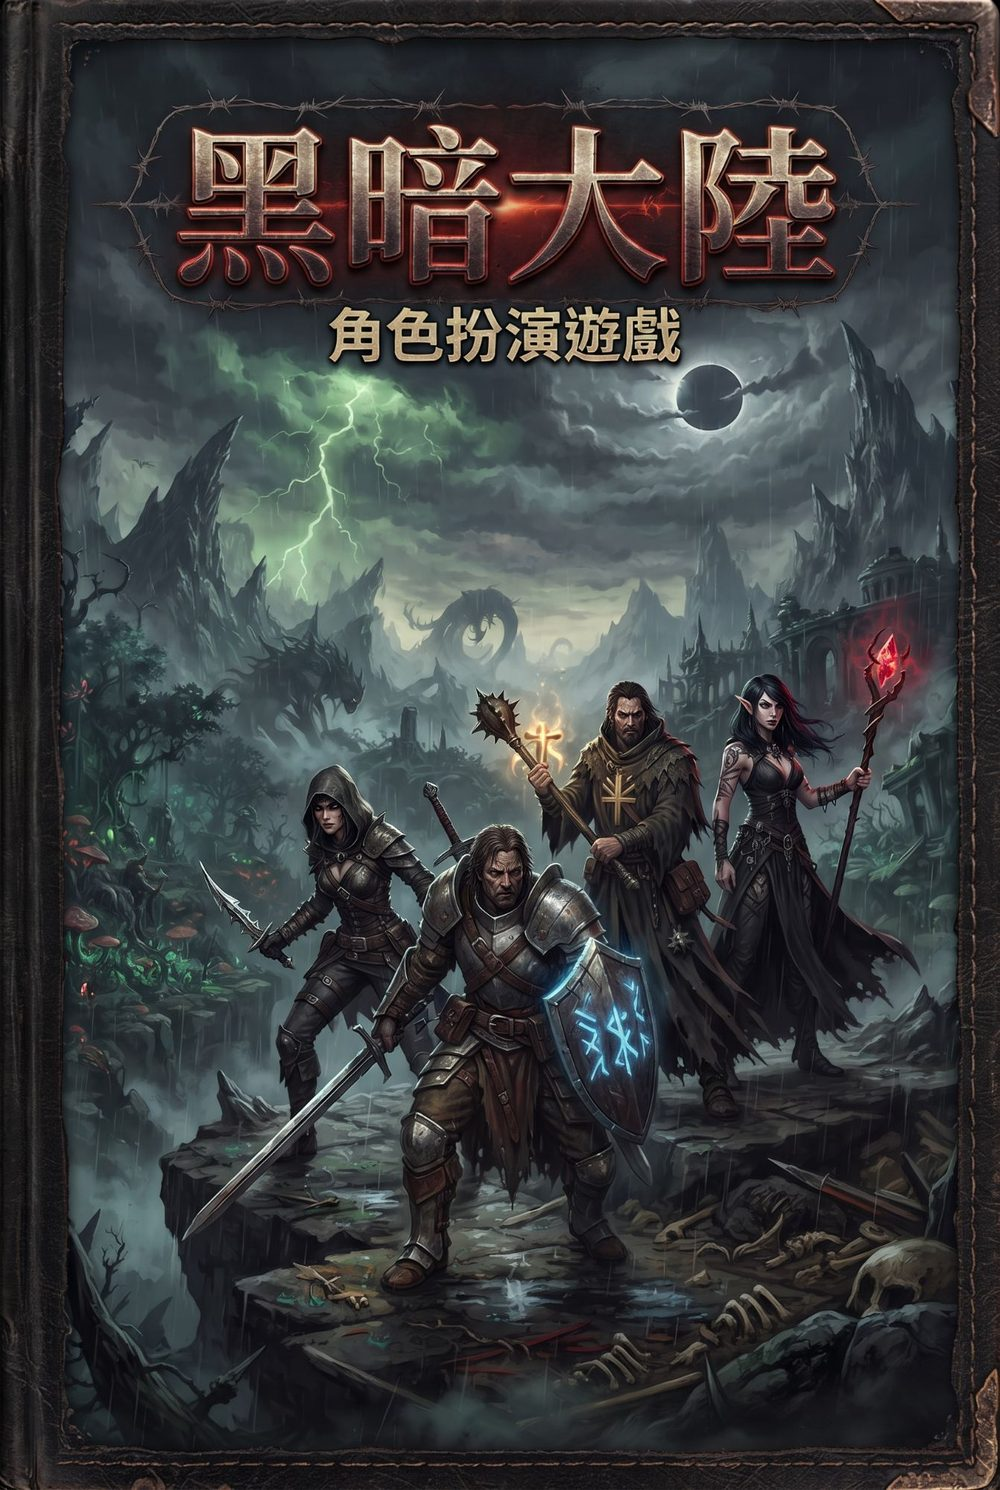
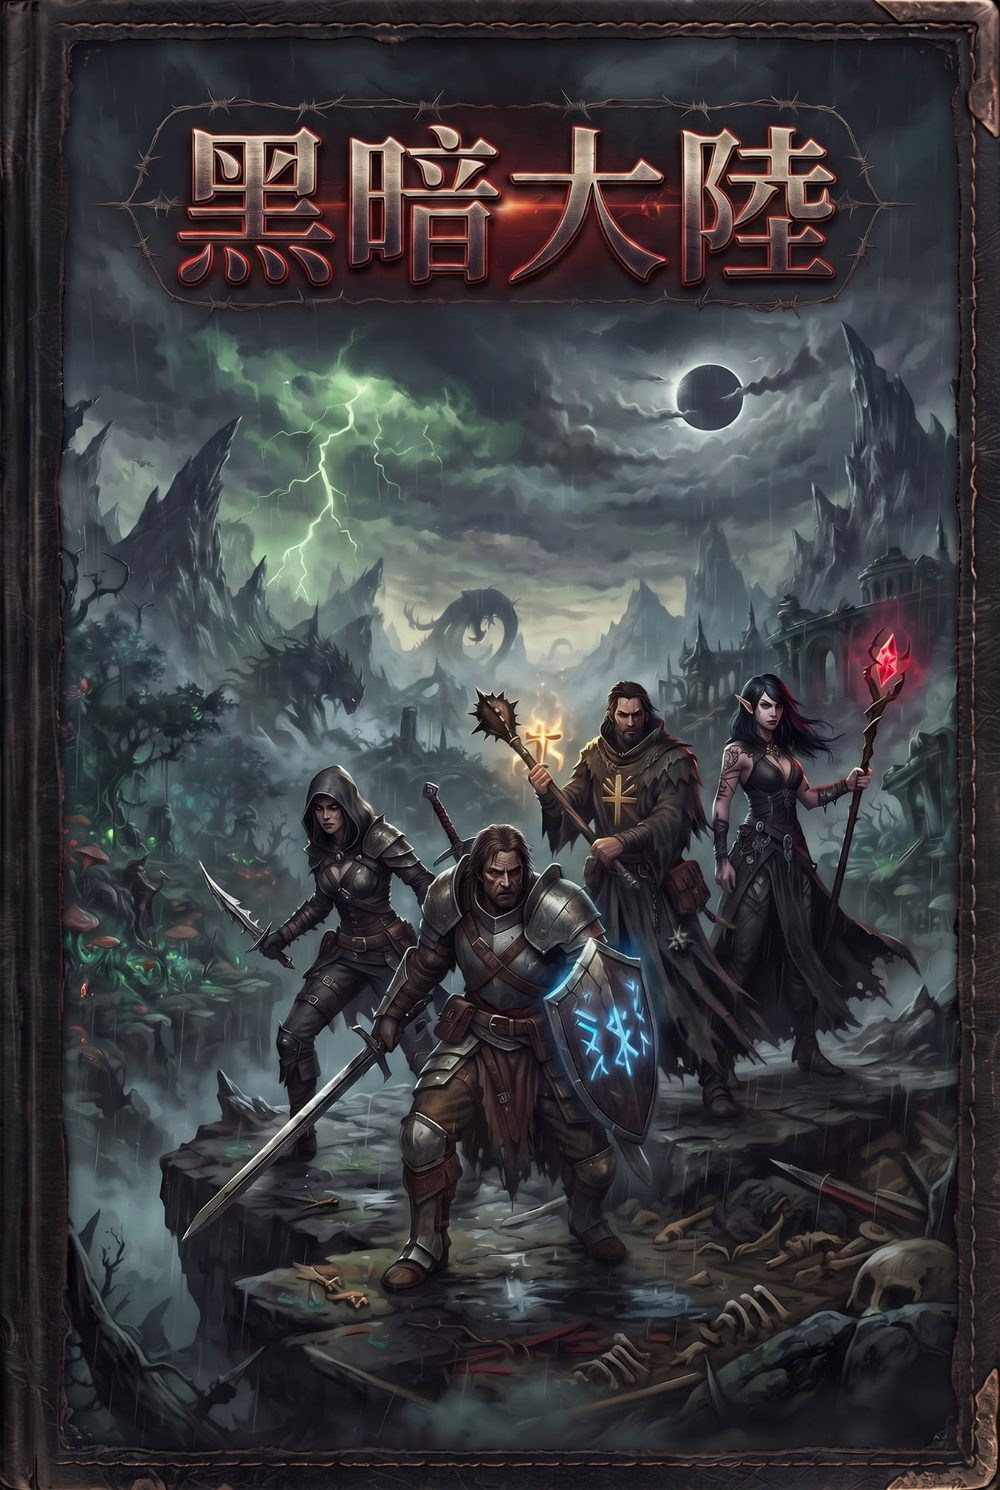
黑暗大陸：換第二版封面、App 圖示改用封面
- 版本 20261012s

Claude-Session: https://claude.ai/code/session_01MiarM4cGHB2ExdtzHSKqUD

diff --git a/屠龍勇者/sw.js b/屠龍勇者/sw.js
@@ -20,7 +20,7 @@ self.addEventListener('install', event => {
             const urls = [...html.matchAll(/src="(data\/[^"]+\?v=[^"]+)"/g)].map(m => new URL(m[1], self.location).href);
             await Promise.all(urls.map(u => cache.add(u).catch(() => {})));
             const assets = await caches.open(ASSETS);
-            await Promise.all(['manifest.json', 'images/icon-192.png', 'images/cover.jpg?v=1', 'images/icon-512.png', 'images/frame.jpg?v=1', 'images/frame-pc-notop.jpg?v=1', 'images/frame-pc-notop-mask.png?v=1', 'images/sprites/demon-walk.png', 'images/sprites/demon-attack.png', 'images/sprites/demon-cast.png', 'images/sprites/demon-hit.png', 'images/classes/demon.jpg', 'images/sprites/angel-walk.png', 'images/sprites/angel-attack.png', 'images/sprites/angel-cast.png', 'images/sprites/angel-hit.png', 'images/classes/angel.jpg','images/maps/ruins.jpg', 'images/maps/village.webp', 'images/maps/ash.webp', 'images/maps/darkgold.webp', 'images/maps/aden.webp', 'images/monsters/wakingDrake.png', 'images/monsters/skeleton.png', 'images/monsters/skeletonArcher.png', 'images/monsters/skeletonAxe.png', 'images/monsters/ghoul.png', 'images/monsters/spartoi.png', 'images/monsters/baphomet.png', 'images/monsters/goblin.png', 'images/monsters/orcWarrior.png', 'images/monsters/gandiOrc.png', 'images/monsters/orcxOrc.png', 'images/monsters/lizardman.png', 'images/monsters/beholder.png', 'images/monsters/floatingEye.png', 'images/monsters/castor.png', 'images/monsters/orc.png', 'images/monsters/orcArcher.png', 'images/monsters/dwarf.png', 'images/monsters/wolf.png', 'images/monsters/werewolf.png', 'images/monsters/lycan.png', 'images/monsters/drake.png', 'images/monsters/blackKnight.png', 'images/monsters/giantSpider.png', 'images/monsters/dwarfWarrior.png', 'images/monsters/forestBear.png', 'images/monsters/treant.png', 'images/monsters/elderTreant.png', 'images/monsters/zombie.png', 'images/monsters/stoneGolem.png', 'images/monsters/caveBat.png', 'images/monsters/ghast.png', 'images/monsters/darkElfScout.png', 'images/monsters/giantAnt.png', 'images/monsters/pirate.png', 'images/monsters/pirateKing.png', 'images/monsters/demon.png', 'images/monsters/pirateGunner.png', 'images/monsters/giantCrab.png', 'images/monsters/drownedSailor.png', 'images/monsters/hellhound.png', 'images/monsters/lamia.png', 'images/monsters/ivoryMage.png', 'images/monsters/ivoryGuard.png', 'images/monsters/dvLizard.png', 'images/monsters/cerberus.png', 'images/monsters/wyvernling.png', 'images/monsters/boneDragonKnight.png', 'images/monsters/wyvern.png', 'images/monsters/mummy.png', 'images/monsters/sandScorpion.png', 'images/monsters/sphinx.png', 'images/monsters/anubis.png', 'images/monsters/snowWolf.png', 'images/monsters/yeti.png', 'images/monsters/iceGolem.png', 'images/monsters/frostWitch.png', 'images/monsters/salamander.png', 'images/monsters/fireSpirit.png', 'images/monsters/lavaGolem.png', 'images/monsters/flameKnight.png', 'images/monsters/ifrit.png', 'images/monsters/ancientGiant.png', 'images/monsters/harpy.png', 'images/monsters/forgottenKnight.png', 'images/monsters/chimera.png', 'images/monsters/giantSkeleton.png', 'images/monsters/tombGuardian.png', 'images/monsters/necromancer.png', 'images/monsters/boneDragon.png', 'images/sprites/magicfighter-walk.png', 'images/sprites/magicfighter-attack.png', 'images/sprites/magicfighter-cast.png', 'images/sprites/magicfighter-hit.png', 'images/classes/magicfighter.jpg', 'images/sprites/paladin-walk.png', 'images/sprites/paladin-attack.png', 'images/sprites/paladin-cast.png', 'images/sprites/paladin-hit.png', 'images/classes/paladin.jpg', 'images/sprites/gunner-walk.png', 'images/sprites/gunner-attack.png', 'images/sprites/gunner-cast.png', 'images/sprites/gunner-hit.png', 'images/classes/gunner.jpg', 'images/sprites/elf-walk.png', 'images/sprites/elf-attack.png', 'images/sprites/elf-cast.png', 'images/sprites/elf-hit.png', 'images/classes/elf.jpg', 'images/sprites/darkelf-walk.png', 'images/sprites/darkelf-attack.png', 'images/sprites/darkelf-cast.png', 'images/sprites/darkelf-hit.png', 'images/classes/darkelf.jpg', 'images/sprites/shura-walk.png', 'images/sprites/shura-attack.png', 'images/sprites/shura-cast.png', 'images/sprites/shura-hit.png', 'images/classes/shura.jpg', 'images/sprites/knight-walk.png', 'images/sprites/knight-attack.png', 'images/sprites/knight-cast.png', 'images/sprites/knight-hit.png', 'images/classes/knight.jpg', 'images/sprites/royal-walk.png', 'images/sprites/royal-attack.png', 'images/sprites/royal-cast.png', 'images/sprites/royal-hit.png', 'images/classes/royal.jpg', 'images/sprites/mage-walk.png', 'images/sprites/mage-attack.png', 'images/sprites/mage-cast.png', 'images/sprites/mage-hit.png', 'images/classes/mage.jpg', 'images/sprites/warrior-walk.png', 'images/sprites/warrior-attack.png', 'images/sprites/warrior-cast.png', 'images/sprites/warrior-hit.png', 'images/classes/warrior.jpg', 'images/classes/all.jpg?v=2', 'images/classes/stage/demon.webp?v=1', 'images/classes/stage/warrior.webp?v=1', 'images/classes/stage/shura.webp?v=1', 'images/classes/stage/angel.webp?v=1', 'images/classes/stage/paladin.webp?v=1', 'images/classes/stage/elf.webp?v=1', 'images/classes/stage/gunner.webp?v=1', 'images/classes/stage/magicfighter.webp?v=1', 'images/classes/stage/darkelf.webp?v=1', 'images/classes/stage/royal.webp?v=1', 'images/classes/stage/knight.webp?v=1', 'images/classes/stage/mage.webp?v=1'].map(u => assets.add(u).catch(() => {})));
+            await Promise.all(['manifest.json', 'images/icon-192.png?v=2', 'images/cover.jpg?v=2', 'images/icon-512.png?v=2', 'images/frame.jpg?v=1', 'images/frame-pc-notop.jpg?v=1', 'images/frame-pc-notop-mask.png?v=1', 'images/sprites/demon-walk.png', 'images/sprites/demon-attack.png', 'images/sprites/demon-cast.png', 'images/sprites/demon-hit.png', 'images/classes/demon.jpg', 'images/sprites/angel-walk.png', 'images/sprites/angel-attack.png', 'images/sprites/angel-cast.png', 'images/sprites/angel-hit.png', 'images/classes/angel.jpg','images/maps/ruins.jpg', 'images/maps/village.webp', 'images/maps/ash.webp', 'images/maps/darkgold.webp', 'images/maps/aden.webp', 'images/monsters/wakingDrake.png', 'images/monsters/skeleton.png', 'images/monsters/skeletonArcher.png', 'images/monsters/skeletonAxe.png', 'images/monsters/ghoul.png', 'images/monsters/spartoi.png', 'images/monsters/baphomet.png', 'images/monsters/goblin.png', 'images/monsters/orcWarrior.png', 'images/monsters/gandiOrc.png', 'images/monsters/orcxOrc.png', 'images/monsters/lizardman.png', 'images/monsters/beholder.png', 'images/monsters/floatingEye.png', 'images/monsters/castor.png', 'images/monsters/orc.png', 'images/monsters/orcArcher.png', 'images/monsters/dwarf.png', 'images/monsters/wolf.png', 'images/monsters/werewolf.png', 'images/monsters/lycan.png', 'images/monsters/drake.png', 'images/monsters/blackKnight.png', 'images/monsters/giantSpider.png', 'images/monsters/dwarfWarrior.png', 'images/monsters/forestBear.png', 'images/monsters/treant.png', 'images/monsters/elderTreant.png', 'images/monsters/zombie.png', 'images/monsters/stoneGolem.png', 'images/monsters/caveBat.png', 'images/monsters/ghast.png', 'images/monsters/darkElfScout.png', 'images/monsters/giantAnt.png', 'images/monsters/pirate.png', 'images/monsters/pirateKing.png', 'images/monsters/demon.png', 'images/monsters/pirateGunner.png', 'images/monsters/giantCrab.png', 'images/monsters/drownedSailor.png', 'images/monsters/hellhound.png', 'images/monsters/lamia.png', 'images/monsters/ivoryMage.png', 'images/monsters/ivoryGuard.png', 'images/monsters/dvLizard.png', 'images/monsters/cerberus.png', 'images/monsters/wyvernling.png', 'images/monsters/boneDragonKnight.png', 'images/monsters/wyvern.png', 'images/monsters/mummy.png', 'images/monsters/sandScorpion.png', 'images/monsters/sphinx.png', 'images/monsters/anubis.png', 'images/monsters/snowWolf.png', 'images/monsters/yeti.png', 'images/monsters/iceGolem.png', 'images/monsters/frostWitch.png', 'images/monsters/salamander.png', 'images/monsters/fireSpirit.png', 'images/monsters/lavaGolem.png', 'images/monsters/flameKnight.png', 'images/monsters/ifrit.png', 'images/monsters/ancientGiant.png', 'images/monsters/harpy.png', 'images/monsters/forgottenKnight.png', 'images/monsters/chimera.png', 'images/monsters/giantSkeleton.png', 'images/monsters/tombGuardian.png', 'images/monsters/necromancer.png', 'images/monsters/boneDragon.png', 'images/sprites/magicfighter-walk.png', 'images/sprites/magicfighter-attack.png', 'images/sprites/magicfighter-cast.png', 'images/sprites/magicfighter-hit.png', 'images/classes/magicfighter.jpg', 'images/sprites/paladin-walk.png', 'images/sprites/paladin-attack.png', 'images/sprites/paladin-cast.png', 'images/sprites/paladin-hit.png', 'images/classes/paladin.jpg', 'images/sprites/gunner-walk.png', 'images/sprites/gunner-attack.png', 'images/sprites/gunner-cast.png', 'images/sprites/gunner-hit.png', 'images/classes/gunner.jpg', 'images/sprites/elf-walk.png', 'images/sprites/elf-attack.png', 'images/sprites/elf-cast.png', 'images/sprites/elf-hit.png', 'images/classes/elf.jpg', 'images/sprites/darkelf-walk.png', 'images/sprites/darkelf-attack.png', 'images/sprites/darkelf-cast.png', 'images/sprites/darkelf-hit.png', 'images/classes/darkelf.jpg', 'images/sprites/shura-walk.png', 'images/sprites/shura-attack.png', 'images/sprites/shura-cast.png', 'images/sprites/shura-hit.png', 'images/classes/shura.jpg', 'images/sprites/knight-walk.png', 'images/sprites/knight-attack.png', 'images/sprites/knight-cast.png', 'images/sprites/knight-hit.png', 'images/classes/knight.jpg', 'images/sprites/royal-walk.png', 'images/sprites/royal-attack.png', 'images/sprites/royal-cast.png', 'images/sprites/royal-hit.png', 'images/classes/royal.jpg', 'images/sprites/mage-walk.png', 'images/sprites/mage-attack.png', 'images/sprites/mage-cast.png', 'images/sprites/mage-hit.png', 'images/classes/mage.jpg', 'images/sprites/warrior-walk.png', 'images/sprites/warrior-attack.png', 'images/sprites/warrior-cast.png', 'images/sprites/warrior-hit.png', 'images/classes/warrior.jpg', 'images/classes/all.jpg?v=2', 'images/classes/stage/demon.webp?v=1', 'images/classes/stage/warrior.webp?v=1', 'images/classes/stage/shura.webp?v=1', 'images/classes/stage/angel.webp?v=1', 'images/classes/stage/paladin.webp?v=1', 'images/classes/stage/elf.webp?v=1', 'images/classes/stage/gunner.webp?v=1', 'images/classes/stage/magicfighter.webp?v=1', 'images/classes/stage/darkelf.webp?v=1', 'images/classes/stage/royal.webp?v=1', 'images/classes/stage/knight.webp?v=1', 'images/classes/stage/mage.webp?v=1'].map(u => assets.add(u).catch(() => {})));
         }
         await self.skipWaiting();
     })());

diff --git a/屠龍勇者/index.html b/屠龍勇者/index.html
@@ -6,8 +6,8 @@
 <title>黑暗大陸</title>
 <link rel="manifest" href="manifest.json">
 <meta name="theme-color" content="#12100c">
-<link rel="icon" type="image/png" sizes="192x192" href="images/icon-192.png">
-<link rel="apple-touch-icon" href="images/apple-touch-icon.png">
+<link rel="icon" type="image/png" sizes="192x192" href="images/icon-192.png?v=2">
+<link rel="apple-touch-icon" href="images/apple-touch-icon.png?v=2">
 <meta name="apple-mobile-web-app-capable" content="yes">
 <meta name="mobile-web-app-capable" content="yes">
 <meta name="apple-mobile-web-app-status-bar-style" content="black-translucent">
@@ -65,7 +65,7 @@
     /* 標題 */
     /* 標題畫面＝使用者提供的「黑暗大陸」封面（images/cover.jpg，1000×1490，圖上已有標題字）；按鈕疊在下方 */
     #screen-title { align-items: center; justify-content: flex-end; text-align: center; padding: 24px 16px calc(20px + env(safe-area-inset-bottom)); gap: 10px;
-        background: linear-gradient(transparent 55%, #000d 82%, #000 100%), url(images/cover.jpg?v=1) center top / cover no-repeat, #000; }
+        background: linear-gradient(transparent 55%, #000d 82%, #000 100%), url(images/cover.jpg?v=2) center top / cover no-repeat, #000; }
     .sr-only { position: absolute; width: 1px; height: 1px; overflow: hidden; clip: rect(0 0 0 0); white-space: nowrap; }
     .title-btns { display: flex; flex-direction: column; gap: 10px; width: 240px; }
     .title-btns button { padding: 13px; font-size: 17px; }
@@ -677,39 +677,39 @@
 <div id="toast-layer"></div>
 
 <!-- 載入順序：設定 → 資料 → 玩家 → 系統 → 介面 → 進入點（換版時所有 ?v= 一起改，見 ARCHITECTURE.md） -->
-<script src="data/config.js?v=20261012r"></script>
-<script src="data/classes.js?v=20261012r"></script>
-<script src="data/skills.js?v=20261012r"></script>
-<script src="data/items.js?v=20261012r"></script>
-<script src="data/monsters.js?v=20261012r"></script>
-<script src="data/zones.js?v=20261012r"></script>
-<script src="data/quests.js?v=20261012r"></script>
-<script src="data/resonance.js?v=20261012r"></script>
-<script src="data/player.js?v=20261012r"></script>
-<script src="data/enchant.js?v=20261012r"></script>
-<script src="data/affix.js?v=20261012r"></script>
-<script src="data/craft.js?v=20261012r"></script>
-<script src="data/maps.js?v=20261012r"></script>
-<script src="data/combat.js?v=20261012r"></script>
-<script src="data/town.js?v=20261012r"></script>
-<script src="data/save.js?v=20261012r"></script>
-<script src="data/cloud.js?v=20261012r"></script>
-<script src="data/offline.js?v=20261012r"></script>
-<script src="data/ui.js?v=20261012r"></script>
-<script src="data/ui-create.js?v=20261012r"></script>
-<script src="data/ui-panels.js?v=20261012r"></script>
-<script src="data/codex.js?v=20261012r"></script>
-<script src="data/raid.js?v=20261012r"></script>
-<script src="data/clan.js?v=20261012r"></script>
-<script src="data/chat.js?v=20261012r"></script>
-<script src="data/rank.js?v=20261012r"></script>
-<script src="data/wb.js?v=20261012r"></script>
-<script src="data/market.js?v=20261012r"></script>
-<script src="data/vault.js?v=20261012r"></script>
-<script src="data/presence.js?v=20261012r"></script>
-<script src="data/ui-frame.js?v=20261012r"></script>
-<script src="data/ui-scene.js?v=20261012r"></script>
-<script src="data/pwa.js?v=20261012r"></script>
-<script src="data/main.js?v=20261012r"></script>
+<script src="data/config.js?v=20261012s"></script>
+<script src="data/classes.js?v=20261012s"></script>
+<script src="data/skills.js?v=20261012s"></script>
+<script src="data/items.js?v=20261012s"></script>
+<script src="data/monsters.js?v=20261012s"></script>
+<script src="data/zones.js?v=20261012s"></script>
+<script src="data/quests.js?v=20261012s"></script>
+<script src="data/resonance.js?v=20261012s"></script>
+<script src="data/player.js?v=20261012s"></script>
+<script src="data/enchant.js?v=20261012s"></script>
+<script src="data/affix.js?v=20261012s"></script>
+<script src="data/craft.js?v=20261012s"></script>
+<script src="data/maps.js?v=20261012s"></script>
+<script src="data/combat.js?v=20261012s"></script>
+<script src="data/town.js?v=20261012s"></script>
+<script src="data/save.js?v=20261012s"></script>
+<script src="data/cloud.js?v=20261012s"></script>
+<script src="data/offline.js?v=20261012s"></script>
+<script src="data/ui.js?v=20261012s"></script>
+<script src="data/ui-create.js?v=20261012s"></script>
+<script src="data/ui-panels.js?v=20261012s"></script>
+<script src="data/codex.js?v=20261012s"></script>
+<script src="data/raid.js?v=20261012s"></script>
+<script src="data/clan.js?v=20261012s"></script>
+<script src="data/chat.js?v=20261012s"></script>
+<script src="data/rank.js?v=20261012s"></script>
+<script src="data/wb.js?v=20261012s"></script>
+<script src="data/market.js?v=20261012s"></script>
+<script src="data/vault.js?v=20261012s"></script>
+<script src="data/presence.js?v=20261012s"></script>
+<script src="data/ui-frame.js?v=20261012s"></script>
+<script src="data/ui-scene.js?v=20261012s"></script>
+<script src="data/pwa.js?v=20261012s"></script>
+<script src="data/main.js?v=20261012s"></script>
 </body>
 </html>

diff --git a/屠龍勇者/gm.html b/屠龍勇者/gm.html
@@ -74,9 +74,9 @@
 </div>
 <div id="modal" class="hidden" onclick="if (event.target === this) gmClose()"><div class="box" id="modal-box"></div></div>
 
-<script src="data/config.js?v=20261012r"></script>
-<script src="data/classes.js?v=20261012r"></script>
-<script src="data/cloud.js?v=20261012r"></script>
+<script src="data/config.js?v=20261012s"></script>
+<script src="data/classes.js?v=20261012s"></script>
+<script src="data/cloud.js?v=20261012s"></script>
 <script>
 const KIND_NAMES = { exp_rate: '經驗暴增', gold_rate: '金幣暴增', stat: '能力值超過上限', elixir: '萬能藥超量', enchant: '強化超過 +15', level: '等級異常', gold_negative: '金幣為負', clock: '裝置時間異常', parse: '存檔格式異常', wb_dmg: '世界首領傷害超過上限', market_dupe: '交易所疑似複製道具', vault_dupe: '共用倉庫疑似複製道具' };
 let sb = null, me = null, tab = 'flags', showResolved = false, playerQuery = '';

diff --git a/屠龍勇者/data/config.js b/屠龍勇者/data/config.js
@@ -1,6 +1,6 @@
 // 屠龍勇者：全域設定、常數、共用小工具（最先載入，不依賴其他檔案）
 const GAME_TITLE = '黑暗大陸';   // 遊戲名稱（2026-10-12 由「屠龍勇者」改名；資料夾與網址不變）
-const GAME_VERSION = '20261012r';
+const GAME_VERSION = '20261012s';
 
 // 與凡塵修仙傳同網域，localStorage 共用，key 一定要有 dragonSlayer_ 前綴
 const SAVE_KEY = 'dragonSlayer_save_v2';   // 欄位 0；其他欄位是 SAVE_KEY + '_s' + 編號（save.js slotKey）

diff --git a/屠龍勇者/ARCHITECTURE.md b/屠龍勇者/ARCHITECTURE.md
@@ -1119,6 +1119,7 @@ python3 tools/cut-sprites.py tools/sprite-src/mage-walk.json --preview 預覽.pn
 - 遊戲名稱改為「黑暗大陸」：`config.js` 的 `GAME_TITLE`、`index.html` 的 `<title>`／`apple-mobile-web-app-title`、`manifest.json` 的 name／short_name、`pwa.js` 安裝提示、`gm.html` 標題。
   **資料夾、網址（`屠龍勇者/`）、localStorage key（`dragonSlayer_`）、雲端資料表都不變**，舊存檔照常讀取。四大龍全討伐的稱號「屠龍勇者」是遊戲內成就，保留。
 - 標題畫面：使用者提供的封面（原圖 1342×2000）縮成 `images/cover.jpg`（1000×1490，260KB，`?v=1`，sw.js 預先快取），當 `#screen-title` 背景（`center top / cover`，下半漸層變黑），
+  2026-10-12（版本 `20261012s`）換成使用者第二版封面（只有「黑暗大陸」標題字，`cover.jpg?v=2`）；App 圖示 `icon-192／512`、`apple-touch-icon`、`icon-maskable-512`（中間 80% 放圖、外圍黑）改用封面上半正方形（標題＋人物），`?v=2`。
   圖上已有「黑暗大陸／角色扮演遊戲」字樣，所以拿掉原本的 🐉、標題字與副標題（保留隱藏的 `<h1 class="sr-only">`）；按鈕、封測提示疊在下方，次要按鈕半透明。
 
 ## 37. 洗白（刪檔）與封測提示（2026-10-12，版本 `20261012i`；`config.js` 的 `WIPE`／`TEST_NOTICE`、`save.js` 開頭 `wipeCheck`、`tools/wipe.sql`）
